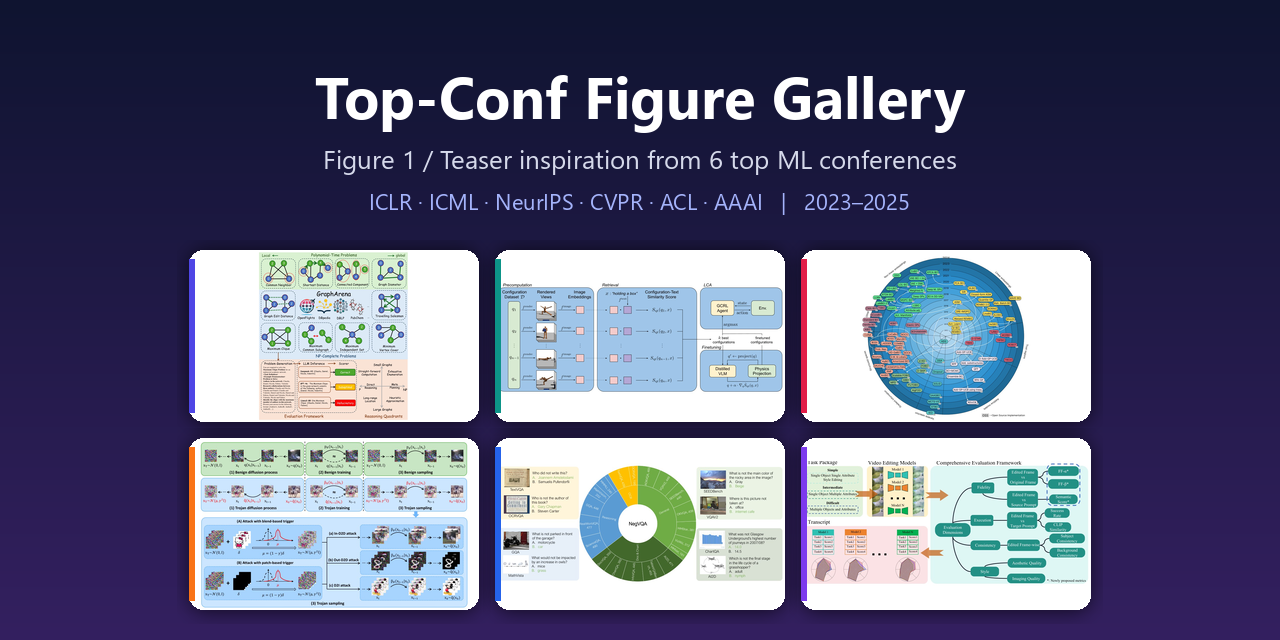
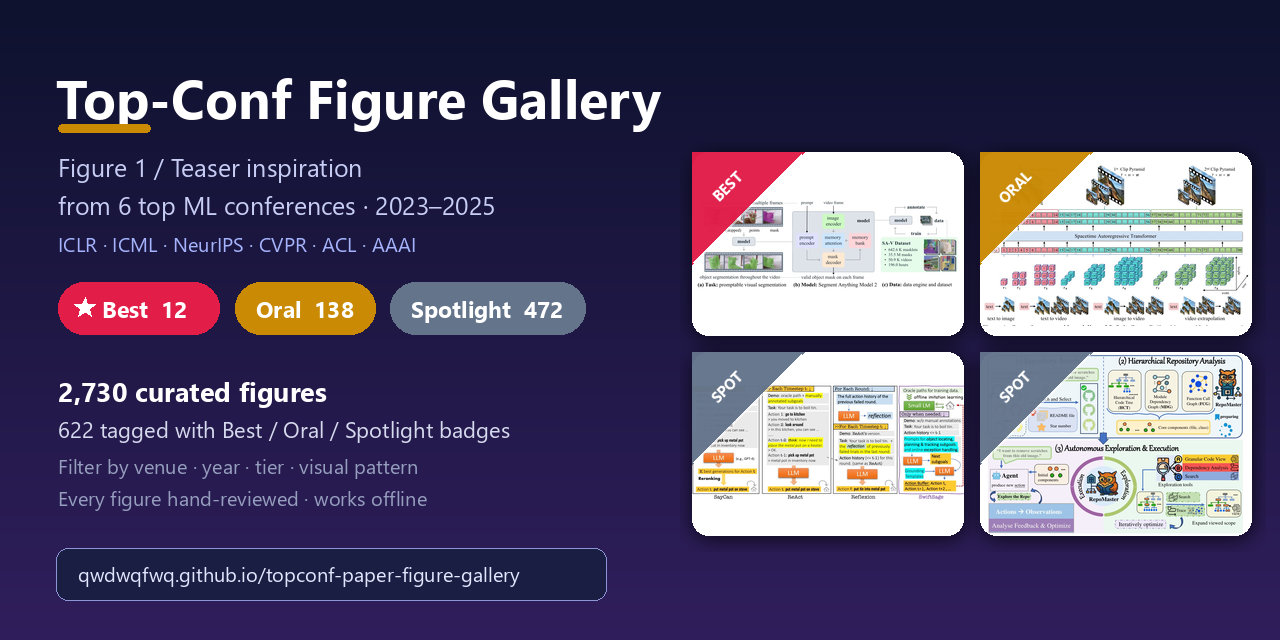
docs: v0.4 social preview; document public v1/v2 edition mapping

diff --git a/CHANGELOG.md b/CHANGELOG.md
@@ -4,6 +4,8 @@
 
 ## [0.4.0] - 2026-09-21
 
+> 公开版本对照（public edition）：v0.3 = 画廊第一版（v1，六会议 2,298 张，2026-09-20 首发）；v0.4 = 画廊第二版（v2，新增等级角标，2,730 张）。GitHub 沿用 0.x 语义化版本，宣发中提到的 "v2" 即指本次发布。
+
 - **高等级论文索引（ICLR / ICML / NeurIPS，2023–2025）**：完整覆盖三大会官方 Oral / Spotlight 名单（3,822 篇候选）与 Best/Outstanding、Honorable Mention 名单（66 篇，人工核对）。
 - **等级角标与筛选**：卡片左上角与灯箱内显示等级——★ 红色 Best/Outstanding（Honorable Mention 为白底红描边）、金色 Oral、银色 Spotlight；筛选栏新增与会议 / 年份 / 模式正交的 Tier 维度（All / Best Paper / Oral / Spotlight，带计数）。
 - 画廊规模 2,298 → **2,730 张**；其中带等级标识 622 张（Best 系列 12、Oral 138、Spotlight 472）。纯理论获奖论文正文没有设计型配图，相应位置留空（口径见 docs/METHODOLOGY.md §5b）。

diff --git a/README.md b/README.md
@@ -214,6 +214,8 @@ python scripts/sheet_qa.py 31
 
 ## 🗺 Roadmap
 
+> **Versioning / 版本对照** — GitHub releases follow 0.x semver; public editions are counted by generation: **public v1 = v0.3** (six venues, 2,298 figures, launched 2026-09-20) and **public v2 = v0.4** (acceptance-tier badges, 2,730 figures). 宣发中的 "v2" 即 release v0.4。
+
 - [x] 60 张人工精选种子画廊（v0.1）
 - [x] ICLR / ICML / NeurIPS 自动管线扩量（v0.2–v0.3）
 - [x] CVPR / ACL / AAAI（2023–2025）同管线扩展（v0.3）
